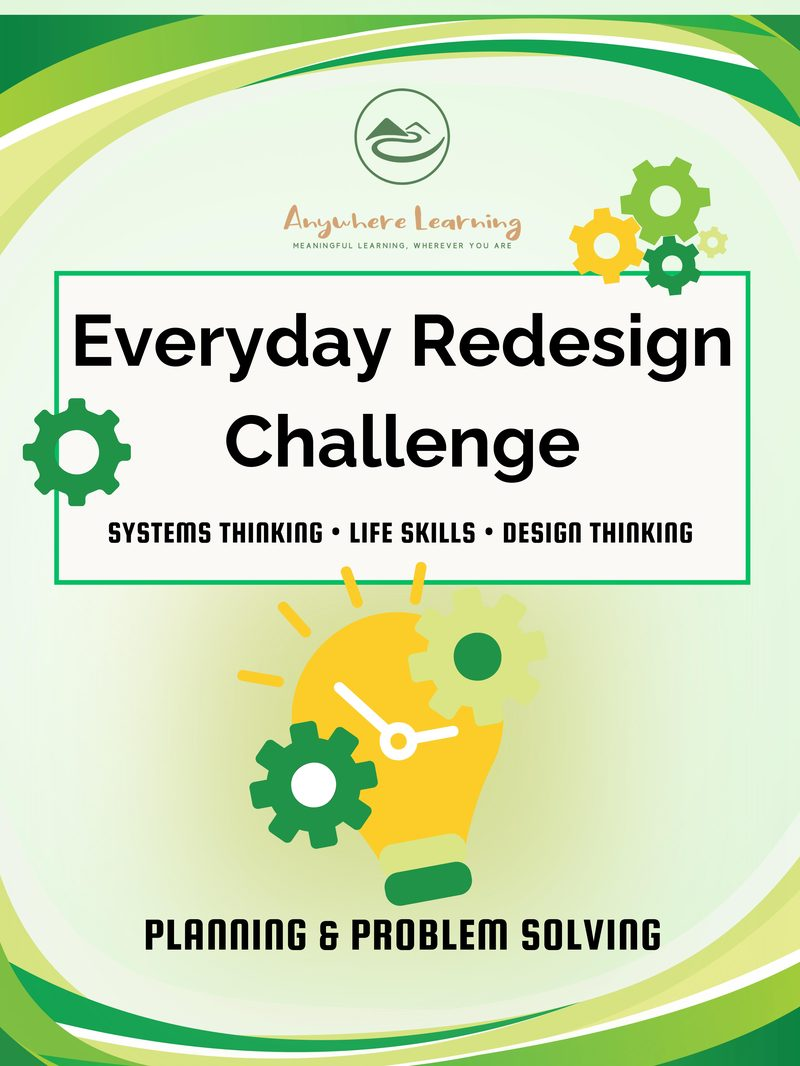
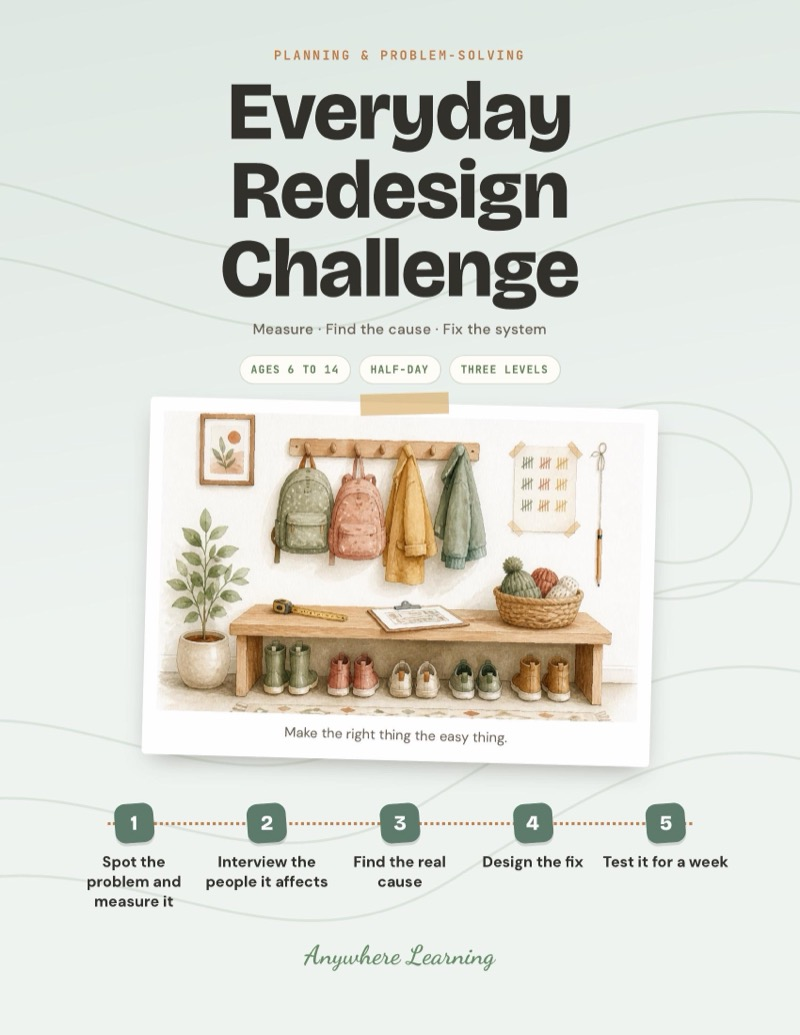
Everyday Redesign Challenge: redesigned guide, watercolour cover, new listing, life-skills tag

diff --git a/scripts/seed.ts b/scripts/seed.ts
@@ -110,7 +110,7 @@ async function seed() {
 
     // === PLANNING & PROBLEM-SOLVING - New guides (sortOrder 130-139) ===
     { name: 'Emergency Ready Challenge', slug: 'emergency-ready', description: 'Your child builds the family emergency plan for real: a map with two ways out of every room, a meeting spot outside, a fire drill you actually run and time, a three-day stay-home kit with the water worked out, and a contact card in every pocket. Then a surprise drill with a twist tests it. Calm, practical readiness that kids feel safer for knowing.', shortDescription: 'Life skills for kids ages 8-14: build a real family emergency plan, run the fire drill and pack a three-day kit.', priceCents: 599, compareAtPriceCents: null, stripePriceId: '', blobUrl: '', imageUrl: '/products/emergency-ready.jpg', category: 'planning-problem-solving', isBundle: false, bundleProductIds: null, activityCount: null, ageRange: 'Ages 8–14', sortOrder: 130, active: true },
-    { name: 'Everyday Redesign Challenge', slug: 'everyday-redesign', description: 'Examine everyday objects and systems, then redesign them for better function.', shortDescription: 'Redesign everyday objects.', priceCents: 599, compareAtPriceCents: null, stripePriceId: '', blobUrl: '', imageUrl: '/products/everyday-redesign.jpg', category: 'planning-problem-solving', isBundle: false, bundleProductIds: null, activityCount: null, ageRange: 'Ages 6–14', sortOrder: 131, active: true },
+    { name: 'Everyday Redesign Challenge', slug: 'everyday-redesign', description: 'Your child picks something at home that bugs everyone, like lost shoes, a cluttered counter or the dinner rush, and redesigns it for real. They count the problem for a week, interview the family, keep asking why until they find the real cause, then build a fix that makes the right thing the easy thing. A second week of counting shows whether it worked.', shortDescription: 'Design thinking for kids ages 6-14: measure a real problem at home, find the cause and test a fix for a week.', priceCents: 599, compareAtPriceCents: null, stripePriceId: '', blobUrl: '', imageUrl: '/products/everyday-redesign.jpg', category: 'planning-problem-solving', isBundle: false, bundleProductIds: null, activityCount: null, ageRange: 'Ages 6–14', sortOrder: 131, active: true },
     { name: 'Fix-It Detective', slug: 'fix-it-detective', description: 'Diagnose and fix real household problems using logic and resourcefulness.', shortDescription: 'Fix real household problems.', priceCents: 599, compareAtPriceCents: null, stripePriceId: '', blobUrl: '', imageUrl: '/products/fix-it-detective.jpg', category: 'planning-problem-solving', isBundle: false, bundleProductIds: null, activityCount: null, ageRange: 'Ages 6–14', sortOrder: 132, active: true },
     { name: 'Neighbourhood Problem Spotter', slug: 'neighbourhood-problem-spotter', description: 'Observe your neighbourhood, spot real problems, and brainstorm solutions.', shortDescription: 'Spot and solve neighbourhood problems.', priceCents: 599, compareAtPriceCents: null, stripePriceId: '', blobUrl: '', imageUrl: '/products/neighbourhood-problem-spotter.jpg', category: 'planning-problem-solving', isBundle: false, bundleProductIds: null, activityCount: null, ageRange: 'Ages 6–14', sortOrder: 133, active: true },
     { name: 'Outdoor Survival Planner', slug: 'outdoor-survival-planner', description: 'Plan outdoor expeditions, think through scenarios, and build survival skills.', shortDescription: 'Plan outdoor survival adventures.', priceCents: 599, compareAtPriceCents: null, stripePriceId: '', blobUrl: '', imageUrl: '/products/outdoor-survival-planner.jpg', category: 'planning-problem-solving', isBundle: false, bundleProductIds: null, activityCount: null, ageRange: 'Ages 8–14', sortOrder: 134, active: true },

diff --git a/lib/product-descriptions.ts b/lib/product-descriptions.ts
@@ -2038,24 +2038,24 @@ export const productDescriptions: Record<string, ProductDescription> = {
   },
   'everyday-redesign': {
     opening:
-      'Look at everyday objects and systems with fresh eyes, then redesign them to work better. Kids practise observation, systems thinking, and creative problem-solving by improving the things they already use. Design thinking applied to real, everyday life.',
+      'Your child picks something at home that bugs everyone, like lost shoes, a cluttered counter or the dinner rush, and redesigns it for real. They count the problem for a week, interview the family, keep asking why until they find the real cause, then build a fix that makes the right thing the easy thing. A second week of counting shows whether it worked.',
     whatsIncluded: [
-      'Everyday redesign challenge guide',
-      'Observation and analysis frameworks',
-      'Problem identification and improvement planning',
-      'Sketch and prototype activities',
-      'Testing and iteration with real users',
+      '5 steps from counting the problem to a week-long test',
+      'Family interviews about what really bugs everyone',
+      'Five whys to get past the symptom to the cause',
+      'Redesign rules that make the right thing the easy thing',
+      'Before and after numbers in a Redesign Toolkit',
     ],
-    skillTags: ['Design Thinking', 'Systems Thinking', 'Creativity', 'Observation', 'Problem-Solving'],
+    skillTags: ['Design Thinking', 'Critical Thinking', 'Systems Thinking', 'Life Skills', 'Problem-Solving'],
     insideTheLearning: {
       lead:
-        'Your child picks something in your house that does not work well and redesigns it properly. Investigate, design, test, iterate. They interview the people who use it, find the root cause rather than the annoying symptom, then prototype a fix and see whether it survives being used.',
+        'Your child learns that most everyday problems are not about people trying too little: they are about a system that makes the wrong thing easy. Telling everyone to try harder rarely works. Moving the shoe basket to where shoes actually come off does, and the count proves it.',
       skills: [
-        { skill: 'Critical Thinking', where: 'Root cause analysis, getting past the symptom to the actual problem' },
-        { skill: 'Systems Thinking', where: 'Seeing how the parts of a household routine connect to each other' },
-        { skill: 'Design Thinking', where: 'Investigating, designing, testing, then iterating on what failed' },
-        { skill: 'Communication', where: 'Interviewing the people who use it and presenting the proposed fix' },
-        { skill: 'Life Skills', where: 'Real home management and organisation, improved by them' },
+        { skill: 'Critical Thinking', where: 'Asking why until they reach the real cause, not the annoying symptom' },
+        { skill: 'Math', where: 'Tallying the problem for a week, then comparing before and after' },
+        { skill: 'Communication', where: 'Interviewing the family and getting everyone on board with the fix' },
+        { skill: 'Creativity', where: 'Designing a fix that fits how people actually behave' },
+        { skill: 'Life Skills', where: 'Running a real part of the home better, with their own system' },
       ],
     },
     format: 'Project Guide',

diff --git a/lib/fallback-products.ts b/lib/fallback-products.ts
@@ -1798,15 +1798,15 @@ export const fallbackProducts: FallbackProduct[] = [
     name: "Everyday Redesign Challenge",
     slug: "everyday-redesign",
     description:
-      "Look at everyday objects and systems with fresh eyes, then redesign them to work better. Kids practise systems thinking, observation, and creative problem-solving by improving the things they use every day. Design thinking applied to real life.",
+      "Your child picks something at home that bugs everyone, like lost shoes, a cluttered counter or the dinner rush, and redesigns it for real. They count the problem for a week, interview the family, keep asking why until they find the real cause, then build a fix that makes the right thing the easy thing. A second week of counting shows whether it worked.",
     shortDescription:
-      "Design thinking for kids ages 6-14: redesign everyday objects and systems. Low-prep creativity lab.",
+      "Design thinking for kids ages 6-14: measure a real problem at home, find the cause and test a fix for a week.",
     priceCents: 599,
     compareAtPriceCents: null,
     stripePriceId: "price_1TLo8YAkIBECpwGmMHOmPEht",
     blobUrl: "",
     imageUrl: "/products/everyday-redesign.jpg",
-    previewFile: "Preview Planning & Problem-Solving Everyday Redesign Challenge.pdf",
+    previewFile: "Preview Planning & Problem-Solving Everyday Redesign Challenge v3.pdf",
     category: "planning-problem-solving",
     isBundle: false,
     bundleProductIds: null,

diff --git a/lib/activity-blob-urls.ts b/lib/activity-blob-urls.ts
@@ -44,7 +44,7 @@ export const ACTIVITY_BLOB_URLS: Record<string, string> = {
   "disappointment-lab": "https://xkj3tzlgu6ylgllk.public.blob.vercel-storage.com/Emotional%20%26%20Social%20Skills%20-%20The%20Disappointment%20Lab%20v2.pdf",
   "emergency-ready": "https://xkj3tzlgu6ylgllk.public.blob.vercel-storage.com/Planning%20%26%20Problem-Solving%20Emergency%20Ready%20Challenge%20v3.pdf",
   "everyday-life-comparison": "https://xkj3tzlgu6ylgllk.public.blob.vercel-storage.com/Worldschooling%20-%20Everyday%20Life%20Comparison%20v2.pdf",
-  "everyday-redesign": "https://xkj3tzlgu6ylgllk.public.blob.vercel-storage.com/Planning%20%26%20Problem-Solving%20Everyday%20Redesign%20Challenge%20v2.pdf",
+  "everyday-redesign": "https://xkj3tzlgu6ylgllk.public.blob.vercel-storage.com/Planning%20%26%20Problem-Solving%20Everyday%20Redesign%20Challenge%20v3.pdf",
   "fall-outdoor-pack": "https://xkj3tzlgu6ylgllk.public.blob.vercel-storage.com/Outdoor%20Learning%20-%20Anywhere%20Learning%20Fall%20v2.pdf",
   "family-debate-night": "https://xkj3tzlgu6ylgllk.public.blob.vercel-storage.com/Communication%20%26%20Writing%20-%20Family%20Debate%20Night%20v6.pdf",
   "family-electricity-audit": "https://xkj3tzlgu6ylgllk.public.blob.vercel-storage.com/Real-world%20math%20-%20Family%20Electricity%20Audit%20v5.pdf",

diff --git a/lib/roadmap.ts b/lib/roadmap.ts
@@ -451,6 +451,7 @@ const SUPPLEMENTAL_TERRITORY_TAGS: Record<string, string[]> = {
   'trail-guide-creator': ['physical'],
   'write-like-a-pro': ['communication'],
   'emergency-ready': ['critical-thinking'],
+  'everyday-redesign': ['life-skills'],
 };
 
 /**
